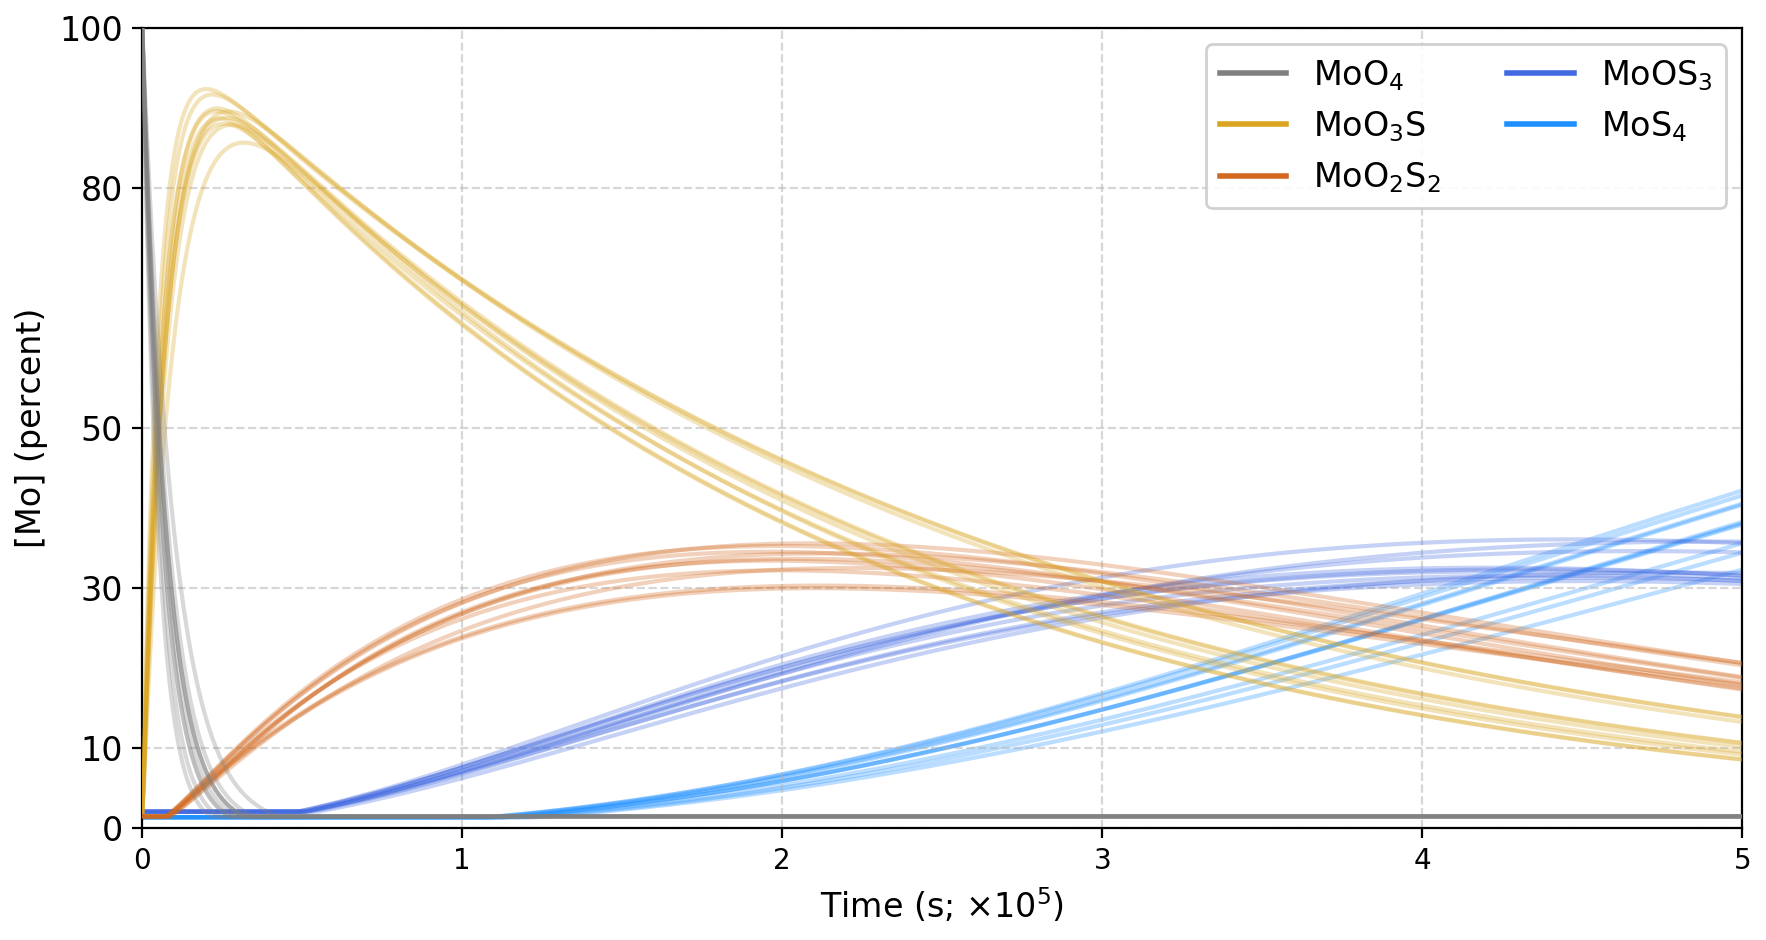
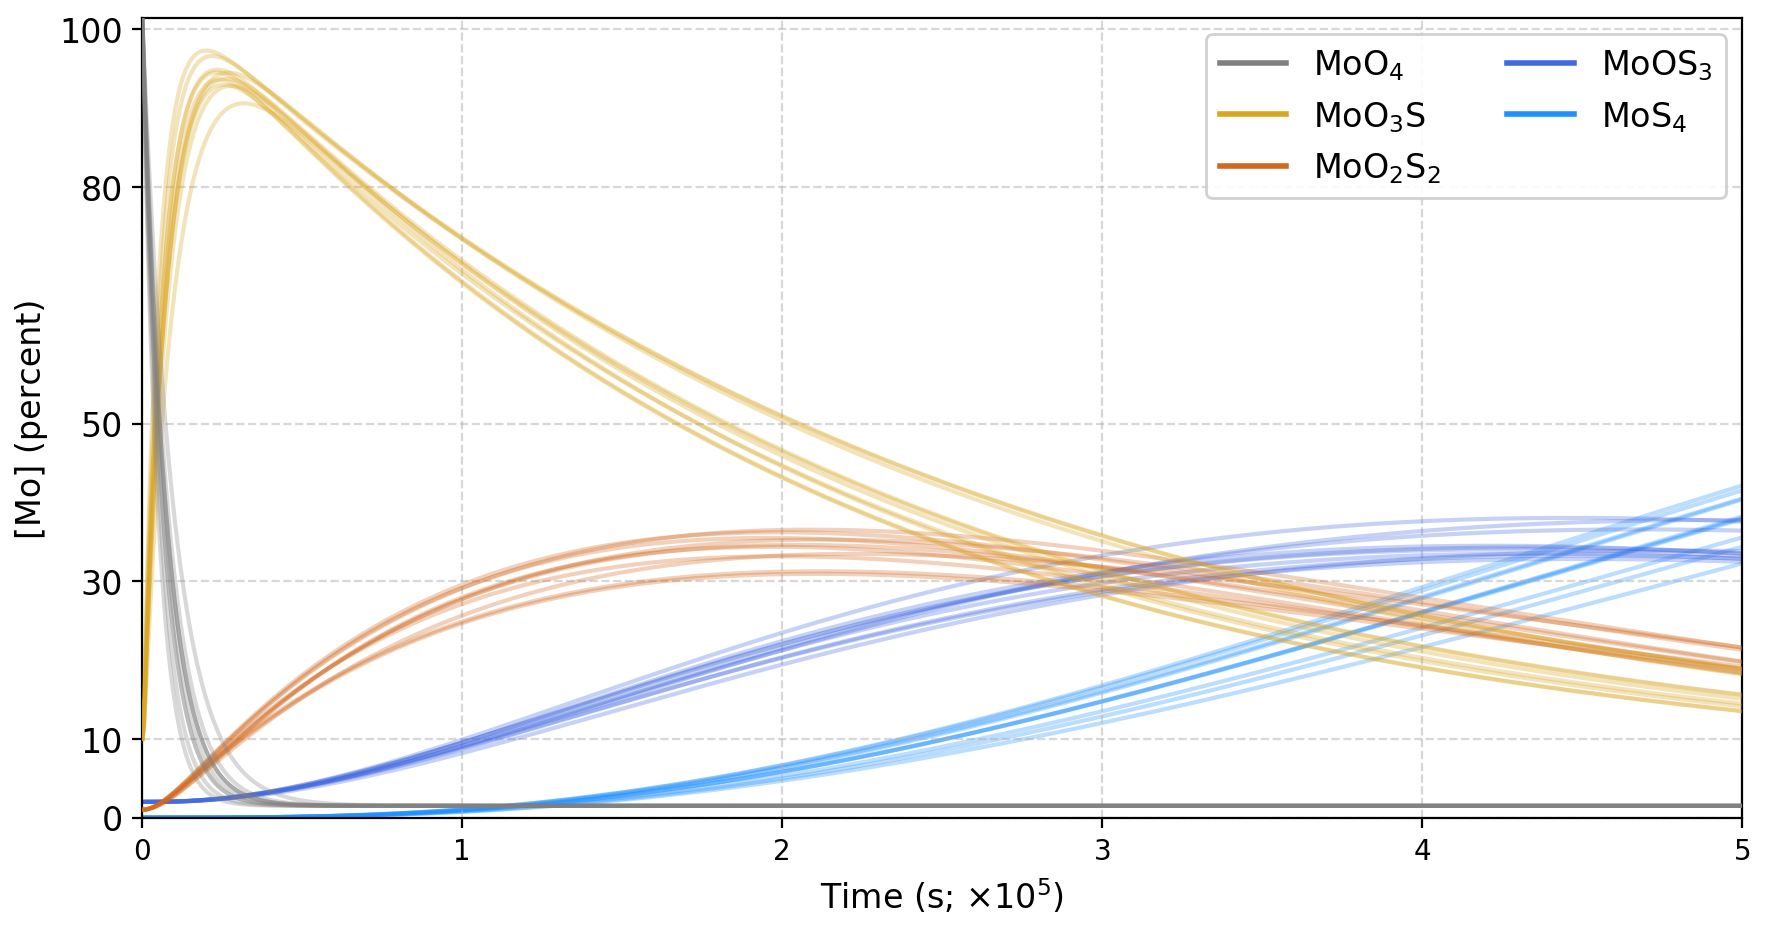
python 3 update to kinetic iso
changed some stuff to run on windows and python 3

Changed region(s): [[0.0311, 0.0, 0.9966, 0.9043], [0.0, 0.3118, 0.0311, 0.5925]]

diff --git a/kinetic_iso.py b/kinetic_iso.py
@@ -1,4 +1,4 @@
-#!/usr/bin/env python2
+#!/usr/bin/env python3
 # -*- coding: utf-8 -*-
 """
 Created on Sun Jan 21 01:29:09 2018
@@ -14,10 +14,6 @@ Dr. Maria J. Molina
 ###############################################################################
 ###############################################################################
 ###############################################################################
-
-
-#this import needed for me because I am still using python version 2.7...
-from __future__ import division
 
 import numpy as np
 import xarray as xr
@@ -87,29 +83,8 @@ del_E = -0.32
 ###############################################################################
 ###############################################################################
 
-
-#import your data set in netcdf format
-data = xr.open_dataset('file1_new.nc', decode_cf=True)
-data2 = xr.open_dataset('file2_new.nc', decode_cf=True)
-
-#extract data variables and limit all the data to the first 7-time points.
-#time_values = data.time[:7].values
-
-#make new normally spaced time steps to see if the graph will work at longer time_values
-def range_inc(start, stop, step, div):
-    i = start
-    calc = []
-    #calc = np.linspace(start, data.time[len(data.time)-1].values, step)
-    #retun np.linspace(0, data.time[len(data.time)-1], 999+1)[1:]
-    while i < stop:
-        calc.append((data.time[len(data.time)-1].values / ((stop - i) * div)))
-        i += step
-    return calc
-
 #time_values = range_inc(0,1000,1,10)
 time_values = np.linspace(0, 500000, 1000)[0:]
-
-#Ao_realvalues = data.A_o[:9].values
 
 ###############################################################################
 ###############################################################################
@@ -118,34 +93,19 @@ time_values = np.linspace(0, 500000, 1000)[0:]
 #Create functions to be called to compute the different chemical parameters
 
 def Mo_solver(Sig_S, eq, divtime, min, max):
-    A = A_o * np.exp(-ki*divtime)
-    if A < min:
-        A = min
-    if A > max:
-        A = max
-         #K_a = (A * DEL_S) / ((A_o-A) * S_tot)
-         #isoA = (K_a - 1) * 1000
-    #DEL_S = Sig_S
+    A = A_o * np.exp(-ki*divtime)+min
 
-    B = np.divide((ki*A_o),(kii-ki)) * (np.exp(-ki*divtime)-np.exp(-kii*divtime))
-    if B < min:
-        B = min
-    if B > max:
-        B = max
-    #K_b = (B*DEL_S) / (A * S_tot)
-    #isoB = (K_b - 1) * 1000
+    B = min + np.divide((ki*A_o),(kii-ki)) * (np.exp(-ki*divtime)-np.exp(-kii*divtime))
+    if B < (2*min):
+        B += min
 
-    C = (np.divide((kii*ki*A_o),(kii-ki)) * \
+    C = min + (np.divide((kii*ki*A_o),(kii-ki)) * \
         ((np.divide(1,(kiii-ki)) * np.exp(-ki*divtime)) - \
         (np.divide(1,(kiii-kii)) * (np.exp(-kii*divtime))) + \
         (np.divide(1 ,(kiii-kii)) * (np.exp(-kiii*divtime))) - \
         (np.divide(1 ,(kiii-ki)) * (np.exp(-kiii*divtime)))))
-    if C < min:
-        C = min
-    if C > max:
-        C = max
 
-    D = np.divide((kiii*kii*ki*A_o), (kii-ki))  * \
+    D = min + np.divide((kiii*kii*ki*A_o), (kii-ki))  * \
         ((np.divide(1, ((kiii-ki)*(kiiii-ki))) * np.exp(-ki*divtime)) - \
         (np.divide(1, ((kiii-kii)*(kiiii-kii))) * np.exp(-kii*divtime)) + \
         (np.divide(1, ((kiii-kii)*(kiiii-kiii))) * np.exp(-kiii*divtime)) - \
@@ -154,10 +114,6 @@ def Mo_solver(Sig_S, eq, divtime, min, max):
         (np.divide(1, ((kiii-kii)*(kiiii-kii))) * np.exp(-kiiii*divtime)) - \
         (np.divide(1, ((kiii-kii)*(kiiii-kiii))) * np.exp(-kiiii*divtime)) + \
         (np.divide(1, ((kiii-ki)*(kiiii-kiii))) * np.exp(-kiiii*divtime)))
-    if D < min:
-        D = min
-    if D > max:
-        D = max
 
     E = A_o + (np.divide((kiiii*kiii*kii*ki*A_o), (kii-ki)) * \
         (np.divide(np.exp(-ki*divtime), ((kiii-ki)*(kiiii-ki)*-ki)) - \
@@ -168,10 +124,6 @@ def Mo_solver(Sig_S, eq, divtime, min, max):
         np.divide(np.exp(-kiiii*divtime), ((kiii-kii)*(kiiii-kii)*-kiiii)) - \
         np.divide(np.exp(-kiiii*divtime), ((kiii-kii)*(kiiii-kiii)*-kiiii)) + \
         np.divide(np.exp(-kiiii*divtime), ((kiii-ki)*(kiiii-kiii)*-kiiii))))
-    if E < min:
-        E = min
-    if E > max:
-        E = max
 
     if eq == 1:
         return A
@@ -294,11 +246,11 @@ Sulfide_low = User_Sulfide / 1.1
 Sulfide_high = User_Sulfide * 1.1
 
 #creat artificial boundry for minimum concentration and maximum concentration
-A_min = User_Mo * 0.014
+A_min = User_Mo * 0.015
 A_max = User_Mo
-B_min = User_Mo * 0.02
+B_min = User_Mo * 0.05
 B_max = User_Mo
-C_min = User_Mo * 0.014
+C_min = User_Mo * 0.01
 C_max = User_Mo
 D_min = User_Mo * 0.02
 D_max = User_Mo
@@ -326,18 +278,6 @@ for indexer, (ki, kii, kiii, kiiii) in enumerate(zip(ki_randomized, kii_randomiz
         E_solutions[indexer, sec_indexer] = Mo_solver(Rand_Sulfide[indexer], 5, time_values[sec_indexer], E_min, E_max)
 
 
-#creat artificial boundry for minimum concentration and maximum concentration
-A_min = User_Mo * 0.014
-A_max = User_Mo
-B_min = User_Mo * 0.02
-B_max = User_Mo
-C_min = User_Mo * 0.014
-C_max = User_Mo
-D_min = 1e-7
-D_max = User_Mo
-E_min = 1e-7
-E_max = User_Mo
-
 ###############################################################################
 ###############################################################################
 ###############################################################################
@@ -345,7 +285,7 @@ E_max = User_Mo
 #repeat the loops to calculate sulide consumed, truncate data accordingly
 Species_cutoff = np.zeros((number_of_samples, len(time_values)))
 
-dominant_species = []
+dominant_species = np.zeros(shape=(5,1))
 
 #Check if the species is decreasing, don't double count moles of sulfide consumed
 for Sindexer, Svalue in enumerate(Rand_Sulfide):
@@ -362,8 +302,7 @@ for Sindexer, Svalue in enumerate(Rand_Sulfide):
     while i < B_idxmax and checker == True:
         DEL_sigS = Rand_Sulfide[Sindexer] - B_solutions[Sindexer][i] - C_solutions[Sindexer][i] - D_solutions[Sindexer][i] - E_solutions[Sindexer][i]
         if DEL_sigS <= 0:
-            dominant_species[1] = i
-            print(dominant_species[1])
+            dominant_species[0] +=  1
             #Species_cutoff[Sindexer, i] = 0
             checker = False
         i += 1
@@ -372,14 +311,14 @@ for Sindexer, Svalue in enumerate(Rand_Sulfide):
     while i < C_idxmax and checker == True:
         DEL_sigS = Rand_Sulfide[Sindexer] - B_solutions[Sindexer][i] - C_solutions[Sindexer][i] - D_solutions[Sindexer][i] - E_solutions[Sindexer][i]
         if DEL_sigS <= 0:
-            print('C_species', i, Sindexer)
+            dominant_species[1] += 1
             checker = False
         i+=1
     i = 0
     while i < D_idxmax and checker == True:
         DEL_sigS = Rand_Sulfide[Sindexer] - B_solutions[Sindexer][i] - C_solutions[Sindexer][i] - D_solutions[Sindexer][i] - E_solutions[Sindexer][i]
         if DEL_sigS <= 0:
-            print('D_species', i, Sindexer)
+            dominant_species[2] += 1
             checker = False
         i+=1
     i = 0
@@ -387,12 +326,14 @@ for Sindexer, Svalue in enumerate(Rand_Sulfide):
     while i < D_idxmax and checker == True:
         DEL_sigS = Rand_Sulfide[Sindexer] - B_solutions[Sindexer][i] - C_solutions[Sindexer][i] - D_solutions[Sindexer][i] - E_solutions[Sindexer][i]
         if DEL_sigS <= 0:
-            print('E_species', i, Sindexer)
+            dominant_species[3] += 1
             checker = False
         i += 1
 
     if checker == True:
-        print('all_species', Sindexer)
+        dominant_species[4] += 1
+
+print(dominant_species)
 
 ###############################################################################
 ###############################################################################
@@ -591,6 +532,13 @@ plt.close()
 ###############################################################################
 ###############################################################################
 
+
+plt.hist(dominant_species, bins=1)
+plt.savefig('image_hist.png', bbox_inches='tight', pad_inches=0.075, dpi=200, alpha=0.004)
+plt.show()
+plt.close()
+
+
 ###############################################################################
 ###############################################################################
 ###############################################################################
@@ -610,7 +558,7 @@ ax.legend([line1, line2, line3, line4, line5],
           fancybox=True, ncol=2, fontsize=12, framealpha=0.9)
 
 ax.set_xlabel(r'Time (s; $ \times 10^{5}$)', fontsize=12, color='k')
-ax.set_ylabel(r'[$^{98}$Mo ‰] (permille)', fontsize=12, color='k')
+ax.set_ylabel(r'[$^{98}$Mo] (permille)', fontsize=12, color='k')
 
 #define a horizontal line at 0 on y axis
 
